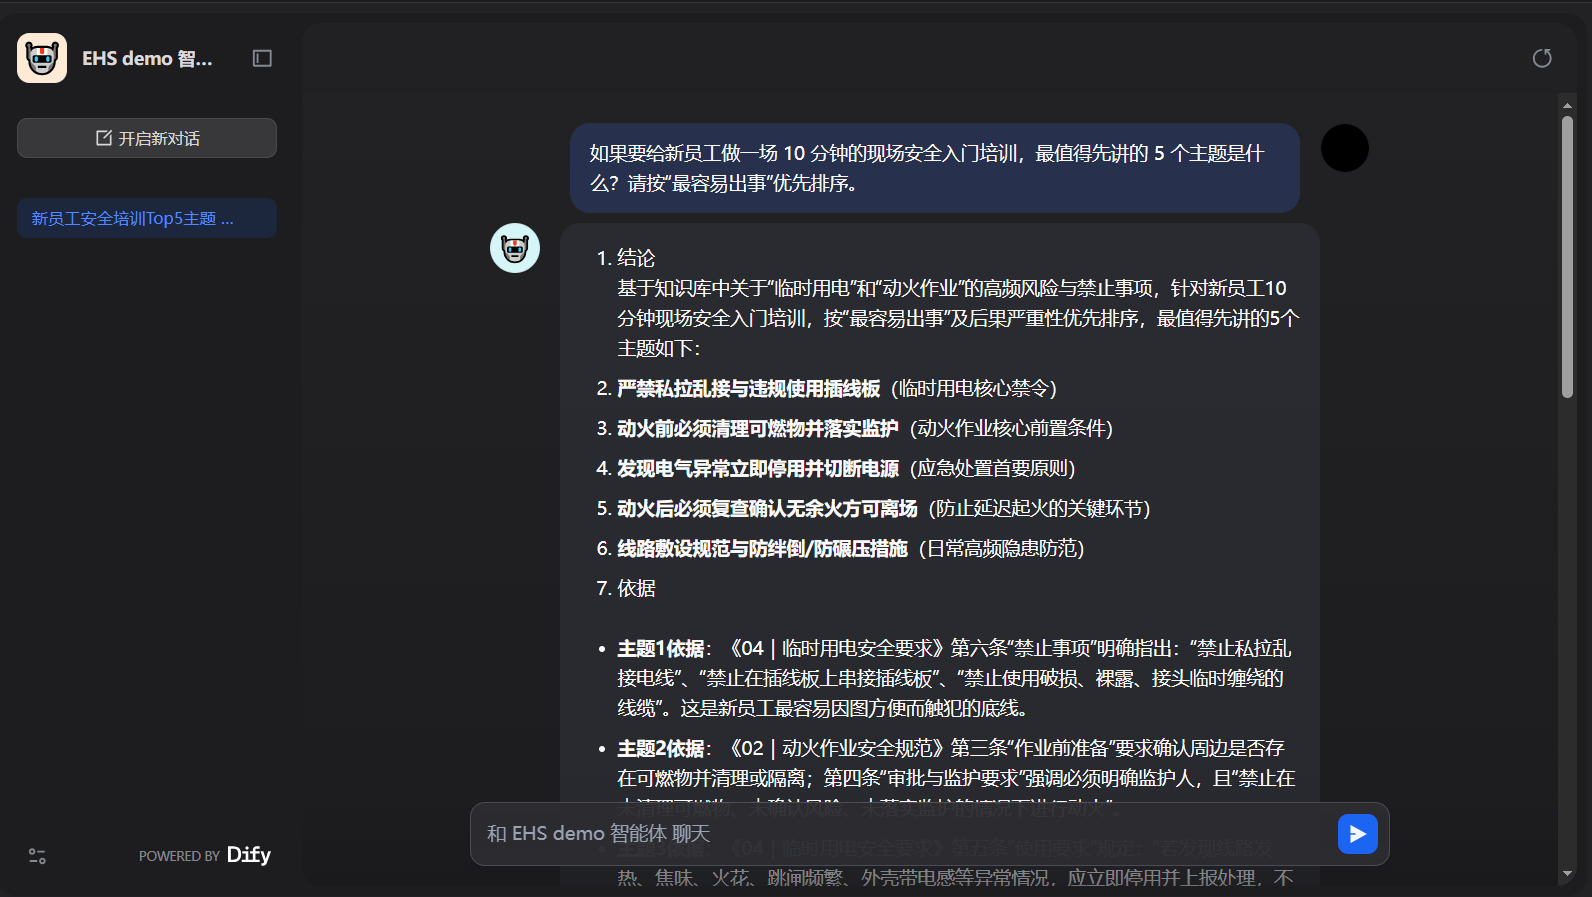
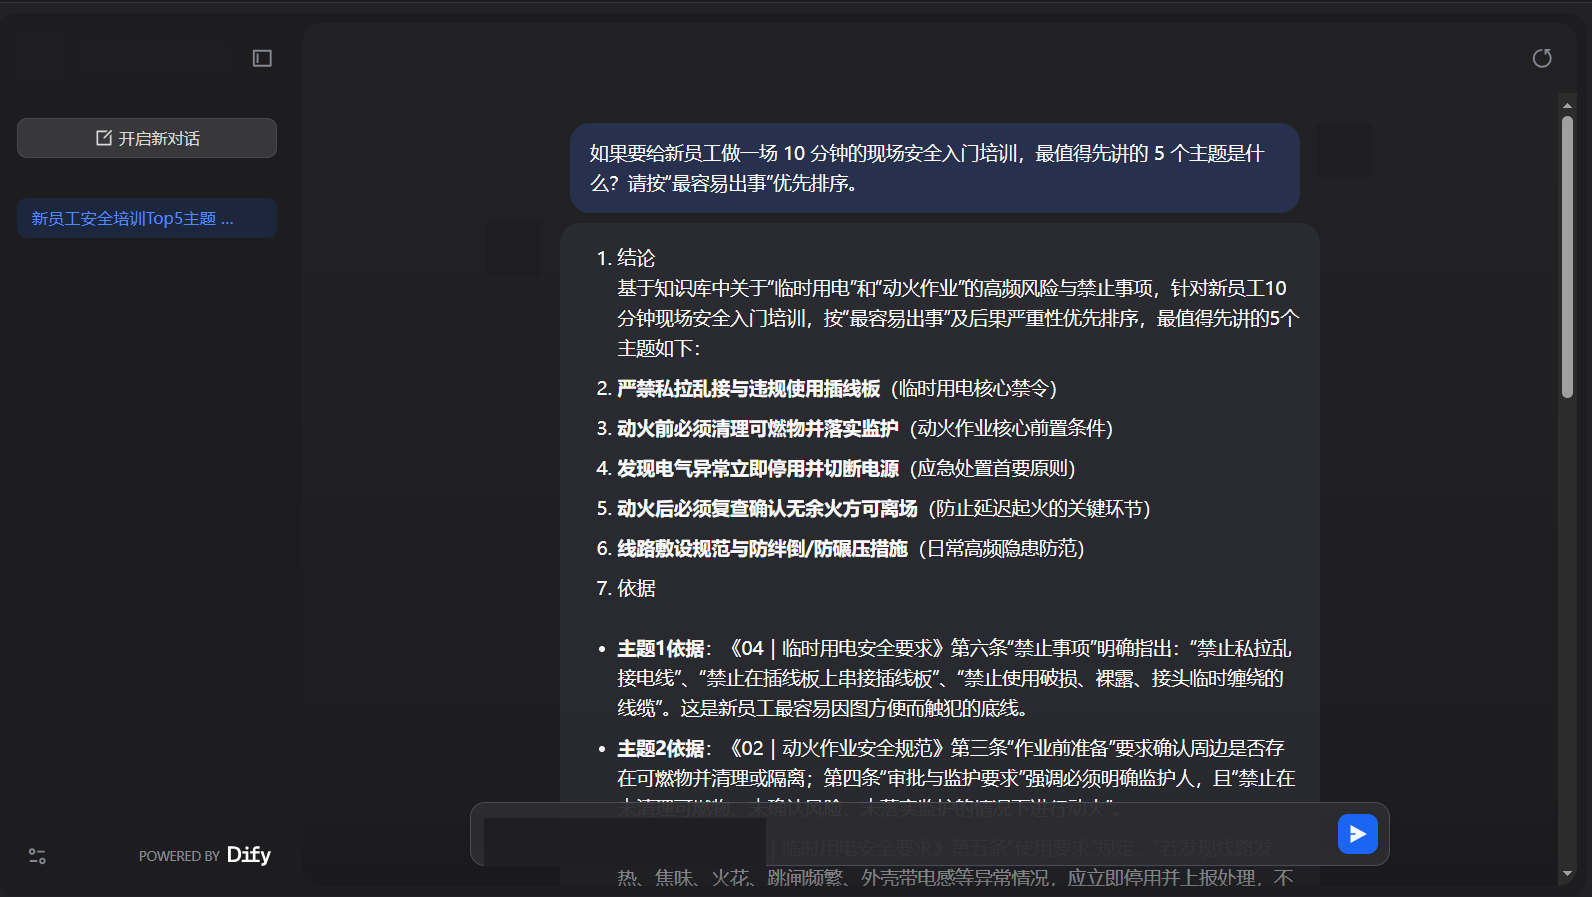
Update redacted screenshots and README

diff --git a/README.md b/README.md
@@ -65,6 +65,20 @@ ehs-knowledge-agent-demo/
 
 Agent 应优先基于知识库回答，并输出结构化内容，例如作业许可、风险识别、通风与气体检测、PPE、监护人、应急准备、作业前检查清单和整改建议。
 
+## Demo Screenshots
+
+### Dify Chat Demo
+
+![Dify Chat Demo](screenshots/dify_demo.png)
+
+### Dify Workflow Demo
+
+![Dify Workflow Demo](screenshots/dify_workflow_demo.png)
+
+### OpenClaw / Feishu Bot Demo
+
+![OpenClaw Feishu Bot Demo](screenshots/openclaw_chat_demo.png)
+
 ## 安全声明
 
 本项目仅用于 AI Agent Demo 和技术展示。`sample_knowledge_base/` 中的内容均为模拟资料，不构成正式法律法规、企业制度或专业 EHS 审核意见。涉及高风险作业时，必须以所在国家/地区法律法规、企业正式制度和专业 EHS 人员现场审核为准。
@@ -78,4 +92,3 @@ python scripts/scan_sensitive_files.py
 ```
 
 脚本会报告疑似真实密钥、占位符和技术说明词。占位符如 `YOUR_API_KEY_HERE` 可以保留；真实密钥、真实账号、真实 token、真实企业数据必须删除。
-
